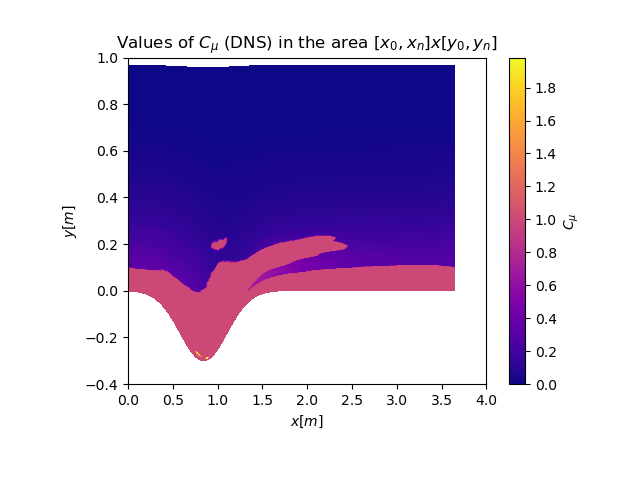
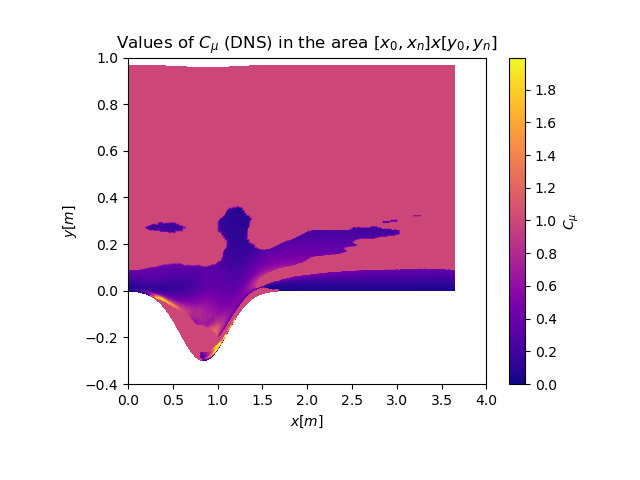
added conditions that were missing

diff --git a/pl_vect2d-1.py b/pl_vect2d-1.py
@@ -178,9 +178,6 @@ print("Starting ML")
 # ----------------------------------------------ML-Method Original Case----------------------------------------------
 omega = eps_DNS2d / k2d / 0.09
 
-# np.maximum is used to avoid division by zero
-k2d = np.maximum(k2d, viscos * omega)
-
 # Compute C_my and ||duidxj|| to train model
 cmy_DNS = np.array(-uv2d / (k2d * (dudy + dvdx)) * omega)
 cmy_DNS = np.where(abs(dudy + dvdx) < 1, 1, cmy_DNS)
@@ -455,11 +452,10 @@ for i in range(len(cmy_DNS_large.flatten())):
     c_k_eps.append(0.09)
     c_k_omega.append(1)
 
-
 et = time.process_time()
 print("Time elapsed: " + str(et - st))
 print("Plotting")
-sys.exit()
+
 # ----------------------------------------------Plot Solution----------------------------------------------
 plt.figure("Test")
 
@@ -489,7 +485,7 @@ y2d = np.delete(y2d, -1, 1)
 # plot the
 fig1, ax1 = plt.subplots()
 plt.subplots_adjust(left=0.20, bottom=0.20)
-fig1.colorbar(plt.contourf(x2d, y2d, cmy_DNS_large, 1000, cmap=plt.get_cmap("plasma")), ax=ax1, label="$C_\mu$")
+fig1.colorbar(plt.contourf(x2d, y2d, cmy_DNS, 1000, cmap=plt.get_cmap("plasma")), ax=ax1, label="$C_\mu$")
 plt.axis([0, 4, -0.4, 1])
 plt.title("Values of $C_\mu$ (DNS) in the area $[x_0,x_n] x [y_0,y_n]$")
 plt.xlabel("$x [m]$")
@@ -501,7 +497,7 @@ y_svr = np.reshape(y_svr, (ni, nj))
 
 fig2, ax2 = plt.subplots()
 plt.subplots_adjust(left=0.20, bottom=0.20)
-fig2.colorbar(plt.contourf(x2d, y2d, y_svr, 1000, cmap=plt.get_cmap("plasma")), ax=ax2, label="$C_\mu$")
+fig2.colorbar(plt.contourf(x2d, y2d, cmy_DNS_large, 1000, cmap=plt.get_cmap("plasma")), ax=ax2, label="$C_\mu$") # y_svr
 plt.axis([0, 4, -0.4, 1])
 plt.title("Values of $C_\mu$ (Prediction) in the area $[x_0,x_n]$ x $[y_0,y_n]$")
 plt.xlabel("$x [m]$")
